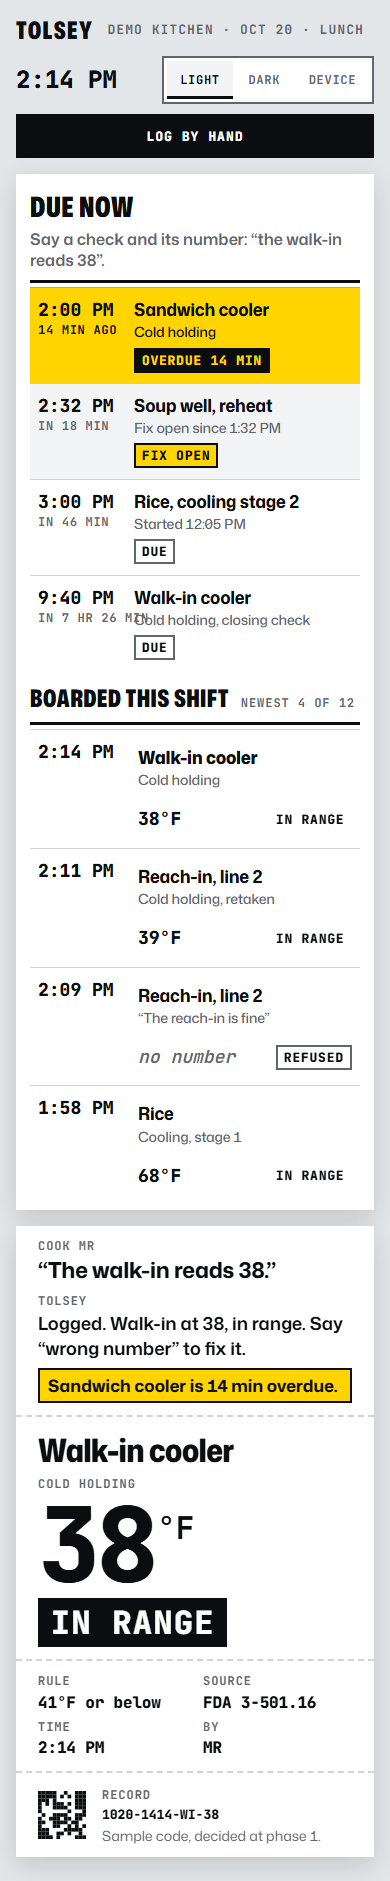
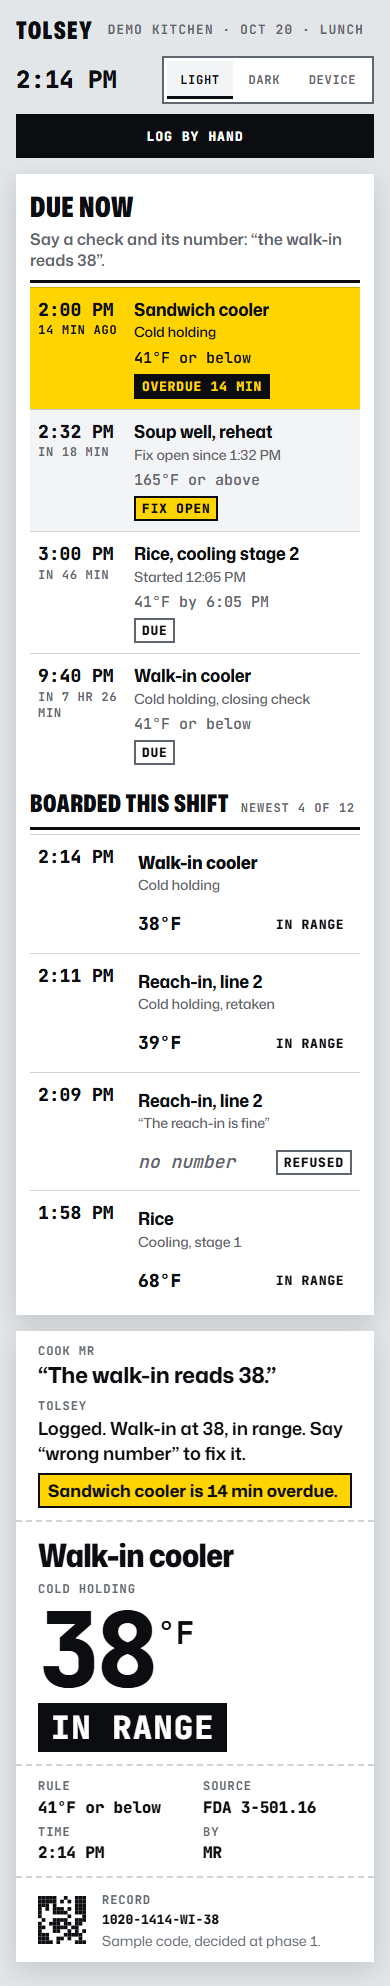
fix(design): keep the rule on a phone and name every restacked cell
Four findings from the pull request's review, each checked against the code
first.

- The board hid the rule column entirely under 900px, so a cook could see a
  check was due and not the number it had to meet. The rule now restacks under
  the check. Measured at 390 and 320 wide in all four states.
- A relative time carrying hours and minutes is wider than the phone's time
  column and ran across the check beside it. It wraps there now. Measured: no
  relative line's right edge passes its own cell in any of the four states at
  either width.
- The boarded table had four data columns and no header cells at all. It gains
  a clipped header row, so the column names reach the accessibility tree while
  the list keeps the look its own heading gives it.
- A restacked row overrides the table display, so the header stops naming its
  cells however it is hidden. The day sheet's two bare cells, the reading and
  the initials, now carry their own name in the markup. Measured: a row reads
  "6:52 AM Walk-in cooler Cold holding Reading 37 41 or below IN RANGE Logged
  by MR", and the added spans measure 1px, so nothing moves on screen.
- PRODUCT.md called the judge's replay a captured real run, which the same file
  contradicts four lines later and the launch page no longer says.

Captures: only the four wall phone frames changed, which is the control. The
desktop frames and every record frame reproduced byte for byte, as they should
when a change is invisible or below the breakpoint.

Changed region(s): [[0.0308, 0.0, 0.9538, 0.9867], [0.7692, 0.8942, 0.8, 0.925], [0.7385, 0.9559, 0.7692, 0.9867]]

diff --git a/design/mockups/record.html b/design/mockups/record.html
@@ -216,32 +216,32 @@
         <thead><tr><th class="label" scope="col">Time</th><th class="label" scope="col">Check</th><th class="label num" scope="col">Reading</th><th class="label" scope="col">Rule</th><th class="label" scope="col">Verdict</th><th class="label" scope="col">By</th></tr></thead>
         <tbody>
           <tr class="hour"><td colspan="6">Opening</td></tr>
-          <tr><td class="t">6:52 AM</td><td class="check">Walk-in cooler<small>Cold holding</small></td><td class="reading num">37</td><td class="rule">41 or below</td><td class="verdict"><span class="status status--word">In range</span></td><td class="by">MR</td></tr>
-          <tr><td class="t">6:55 AM</td><td class="check">Reach-in, line 1<small>Cold holding</small></td><td class="reading num">39</td><td class="rule">41 or below</td><td class="verdict"><span class="status status--word">In range</span></td><td class="by">MR</td></tr>
-          <tr><td class="t">6:58 AM</td><td class="check">Reach-in, line 2<small>Cold holding</small></td><td class="reading num">40</td><td class="rule">41 or below</td><td class="verdict"><span class="status status--word">In range</span></td><td class="by">MR</td></tr>
-          <tr><td class="t">9:15 AM</td><td class="check">Delivery, dairy<small>Receiving</small></td><td class="reading num">40</td><td class="rule">41 or below</td><td class="verdict"><span class="status status--word">In range</span></td><td class="by">JT</td></tr>
+          <tr><td class="t">6:52 AM</td><td class="check">Walk-in cooler<small>Cold holding</small></td><td class="reading num"><span class="visually-hidden">Reading </span>37</td><td class="rule">41 or below</td><td class="verdict"><span class="status status--word">In range</span></td><td class="by"><span class="visually-hidden">Logged by </span>MR</td></tr>
+          <tr><td class="t">6:55 AM</td><td class="check">Reach-in, line 1<small>Cold holding</small></td><td class="reading num"><span class="visually-hidden">Reading </span>39</td><td class="rule">41 or below</td><td class="verdict"><span class="status status--word">In range</span></td><td class="by"><span class="visually-hidden">Logged by </span>MR</td></tr>
+          <tr><td class="t">6:58 AM</td><td class="check">Reach-in, line 2<small>Cold holding</small></td><td class="reading num"><span class="visually-hidden">Reading </span>40</td><td class="rule">41 or below</td><td class="verdict"><span class="status status--word">In range</span></td><td class="by"><span class="visually-hidden">Logged by </span>MR</td></tr>
+          <tr><td class="t">9:15 AM</td><td class="check">Delivery, dairy<small>Receiving</small></td><td class="reading num"><span class="visually-hidden">Reading </span>40</td><td class="rule">41 or below</td><td class="verdict"><span class="status status--word">In range</span></td><td class="by"><span class="visually-hidden">Logged by </span>JT</td></tr>
 
           <tr class="hour"><td colspan="6">Lunch</td></tr>
-          <tr><td class="t">11:02 AM</td><td class="check">Walk-in cooler<small>Cold holding</small></td><td class="reading num">38</td><td class="rule">41 or below</td><td class="verdict"><span class="status status--word">In range</span></td><td class="by">MR</td></tr>
-          <tr><td class="t">11:40 AM</td><td class="check">Delivery, chicken<small>Receiving</small></td><td class="reading num">36</td><td class="rule">41 or below</td><td class="verdict"><span class="status status--word">In range</span></td><td class="by">JT</td></tr>
-          <tr><td class="t">12:05 PM</td><td class="check">Rice<small>Cooling starts, both clocks run</small></td><td class="reading num">135</td><td class="rule">70 by 2:05 PM</td><td class="verdict"><span class="status status--quiet">Cooling</span></td><td class="by">AK</td></tr>
-          <tr class="row--change"><td class="t">1:32 PM</td><td class="check">Soup well<small>Hot holding</small></td><td class="reading num">128</td><td class="rule">135 or above</td><td class="verdict"><span class="status status--alert">Out of range</span></td><td class="by">JT</td></tr>
+          <tr><td class="t">11:02 AM</td><td class="check">Walk-in cooler<small>Cold holding</small></td><td class="reading num"><span class="visually-hidden">Reading </span>38</td><td class="rule">41 or below</td><td class="verdict"><span class="status status--word">In range</span></td><td class="by"><span class="visually-hidden">Logged by </span>MR</td></tr>
+          <tr><td class="t">11:40 AM</td><td class="check">Delivery, chicken<small>Receiving</small></td><td class="reading num"><span class="visually-hidden">Reading </span>36</td><td class="rule">41 or below</td><td class="verdict"><span class="status status--word">In range</span></td><td class="by"><span class="visually-hidden">Logged by </span>JT</td></tr>
+          <tr><td class="t">12:05 PM</td><td class="check">Rice<small>Cooling starts, both clocks run</small></td><td class="reading num"><span class="visually-hidden">Reading </span>135</td><td class="rule">70 by 2:05 PM</td><td class="verdict"><span class="status status--quiet">Cooling</span></td><td class="by"><span class="visually-hidden">Logged by </span>AK</td></tr>
+          <tr class="row--change"><td class="t">1:32 PM</td><td class="check">Soup well<small>Hot holding</small></td><td class="reading num"><span class="visually-hidden">Reading </span>128</td><td class="rule">135 or above</td><td class="verdict"><span class="status status--alert">Out of range</span></td><td class="by"><span class="visually-hidden">Logged by </span>JT</td></tr>
           <tr class="fix"><td colspan="6"><div class="fix-body"><b>Fix: soup well, reheat to 165 by 2:32 PM</b><p>Opened 1:32 PM when the soup well read 128. House rule, one hour, where FDA 3-403.11 allows two. Closed 2:26 PM at 168, six minutes early.</p><span class="status status--word">Closed on time</span></div></td></tr>
-          <tr><td class="t">1:58 PM</td><td class="check">Rice<small>Cooling, stage 1</small></td><td class="reading num">68</td><td class="rule">70 by 2:05 PM</td><td class="verdict"><span class="status status--word">In range</span></td><td class="by">AK</td></tr>
-          <tr class="row--change"><td class="t">2:09 PM</td><td class="check">Reach-in, line 2<small>Said &ldquo;the reach-in is fine&rdquo;</small></td><td class="reading num reading--none">no number</td><td class="rule">41 or below</td><td class="verdict"><span class="status status--alert">Refused</span></td><td class="by">AK</td></tr>
-          <tr><td class="t">2:11 PM</td><td class="check">Reach-in, line 2<small>Cold holding, retaken</small></td><td class="reading num">39</td><td class="rule">41 or below</td><td class="verdict"><span class="status status--word">In range</span></td><td class="by">AK</td></tr>
-          <tr><td class="t">2:14 PM</td><td class="check">Walk-in cooler<small>Cold holding</small></td><td class="reading num">38</td><td class="rule">41 or below</td><td class="verdict"><span class="status status--word">In range</span></td><td class="by">MR</td></tr>
-          <tr class="row--change"><td class="t">2:20 PM</td><td class="check">Sandwich cooler<small>Cold holding, was due 2:00 PM</small></td><td class="reading num">40</td><td class="rule">41 or below</td><td class="verdict"><span class="status status--alert">Late 20 min</span></td><td class="by">DS</td></tr>
-          <tr><td class="t">2:26 PM</td><td class="check">Soup well<small>Reheat, closes the fix</small></td><td class="reading num">168</td><td class="rule">165 or above, 15 s</td><td class="verdict"><span class="status status--word">In range</span></td><td class="by">DS</td></tr>
+          <tr><td class="t">1:58 PM</td><td class="check">Rice<small>Cooling, stage 1</small></td><td class="reading num"><span class="visually-hidden">Reading </span>68</td><td class="rule">70 by 2:05 PM</td><td class="verdict"><span class="status status--word">In range</span></td><td class="by"><span class="visually-hidden">Logged by </span>AK</td></tr>
+          <tr class="row--change"><td class="t">2:09 PM</td><td class="check">Reach-in, line 2<small>Said &ldquo;the reach-in is fine&rdquo;</small></td><td class="reading num reading--none"><span class="visually-hidden">Reading </span>no number</td><td class="rule">41 or below</td><td class="verdict"><span class="status status--alert">Refused</span></td><td class="by"><span class="visually-hidden">Logged by </span>AK</td></tr>
+          <tr><td class="t">2:11 PM</td><td class="check">Reach-in, line 2<small>Cold holding, retaken</small></td><td class="reading num"><span class="visually-hidden">Reading </span>39</td><td class="rule">41 or below</td><td class="verdict"><span class="status status--word">In range</span></td><td class="by"><span class="visually-hidden">Logged by </span>AK</td></tr>
+          <tr><td class="t">2:14 PM</td><td class="check">Walk-in cooler<small>Cold holding</small></td><td class="reading num"><span class="visually-hidden">Reading </span>38</td><td class="rule">41 or below</td><td class="verdict"><span class="status status--word">In range</span></td><td class="by"><span class="visually-hidden">Logged by </span>MR</td></tr>
+          <tr class="row--change"><td class="t">2:20 PM</td><td class="check">Sandwich cooler<small>Cold holding, was due 2:00 PM</small></td><td class="reading num"><span class="visually-hidden">Reading </span>40</td><td class="rule">41 or below</td><td class="verdict"><span class="status status--alert">Late 20 min</span></td><td class="by"><span class="visually-hidden">Logged by </span>DS</td></tr>
+          <tr><td class="t">2:26 PM</td><td class="check">Soup well<small>Reheat, closes the fix</small></td><td class="reading num"><span class="visually-hidden">Reading </span>168</td><td class="rule">165 or above, 15 s</td><td class="verdict"><span class="status status--word">In range</span></td><td class="by"><span class="visually-hidden">Logged by </span>DS</td></tr>
 
           <tr class="hour"><td colspan="6">Afternoon</td></tr>
-          <tr><td class="t">3:00 PM</td><td class="check">Rice<small>Cooling, stage 2</small></td><td class="reading num">56</td><td class="rule">41 by 6:05 PM</td><td class="verdict"><span class="status status--quiet">Cooling</span></td><td class="by">AK</td></tr>
-          <tr><td class="t">4:15 PM</td><td class="check">Rice<small>Cooling, stage 2</small></td><td class="reading num">47</td><td class="rule">41 by 6:05 PM</td><td class="verdict"><span class="status status--quiet">Cooling</span></td><td class="by">AK</td></tr>
-          <tr><td class="t">5:40 PM</td><td class="check">Rice<small>Cooling, stage 2</small></td><td class="reading num">40</td><td class="rule">41 by 6:05 PM</td><td class="verdict"><span class="status status--word">In range</span></td><td class="by">AK</td></tr>
+          <tr><td class="t">3:00 PM</td><td class="check">Rice<small>Cooling, stage 2</small></td><td class="reading num"><span class="visually-hidden">Reading </span>56</td><td class="rule">41 by 6:05 PM</td><td class="verdict"><span class="status status--quiet">Cooling</span></td><td class="by"><span class="visually-hidden">Logged by </span>AK</td></tr>
+          <tr><td class="t">4:15 PM</td><td class="check">Rice<small>Cooling, stage 2</small></td><td class="reading num"><span class="visually-hidden">Reading </span>47</td><td class="rule">41 by 6:05 PM</td><td class="verdict"><span class="status status--quiet">Cooling</span></td><td class="by"><span class="visually-hidden">Logged by </span>AK</td></tr>
+          <tr><td class="t">5:40 PM</td><td class="check">Rice<small>Cooling, stage 2</small></td><td class="reading num"><span class="visually-hidden">Reading </span>40</td><td class="rule">41 by 6:05 PM</td><td class="verdict"><span class="status status--word">In range</span></td><td class="by"><span class="visually-hidden">Logged by </span>AK</td></tr>
 
           <tr class="hour"><td colspan="6">Closing</td></tr>
-          <tr><td class="t">9:31 PM</td><td class="check">Walk-in cooler<small>Cold holding</small></td><td class="reading num">37</td><td class="rule">41 or below</td><td class="verdict"><span class="status status--word">In range</span></td><td class="by">DS</td></tr>
-          <tr><td class="t">9:34 PM</td><td class="check">Reach-in, line 1<small>Cold holding</small></td><td class="reading num">38</td><td class="rule">41 or below</td><td class="verdict"><span class="status status--word">In range</span></td><td class="by">DS</td></tr>
+          <tr><td class="t">9:31 PM</td><td class="check">Walk-in cooler<small>Cold holding</small></td><td class="reading num"><span class="visually-hidden">Reading </span>37</td><td class="rule">41 or below</td><td class="verdict"><span class="status status--word">In range</span></td><td class="by"><span class="visually-hidden">Logged by </span>DS</td></tr>
+          <tr><td class="t">9:34 PM</td><td class="check">Reach-in, line 1<small>Cold holding</small></td><td class="reading num"><span class="visually-hidden">Reading </span>38</td><td class="rule">41 or below</td><td class="verdict"><span class="status status--word">In range</span></td><td class="by"><span class="visually-hidden">Logged by </span>DS</td></tr>
         </tbody>
       </table>
 

diff --git a/design/mockups/wall.html b/design/mockups/wall.html
@@ -121,6 +121,9 @@
     .check { font-size: 1.375rem; font-weight: 700; font-stretch: 95%; line-height: 1.3; letter-spacing: -0.01em; }
     .check small { display: block; font-size: 0.9375rem; font-weight: 500; font-stretch: 100%; color: var(--steel); margin-top: 2px; }
     .r { font-family: var(--mono); font-size: 0.9375rem; font-weight: 600; color: var(--steel); white-space: nowrap; }
+    /* The boarded list sits under its own heading and needs no second visible header row, but the column names
+       still belong in the accessibility tree: a bare 38°F beside a bare In range means nothing without them. */
+    .rows--boarded thead { position: absolute; width: 1px; height: 1px; overflow: hidden; clip-path: inset(50%); white-space: nowrap; }
     .rows--boarded td { padding: 6px 12px; }
     .rows--boarded .t { font-size: 1.125rem; }
     .rows--boarded .check { font-size: 1.125rem; }
@@ -172,8 +175,12 @@
       thead { position: absolute; width: 1px; height: 1px; overflow: hidden; clip-path: inset(50%); white-space: nowrap; }
       tr { display: grid; grid-template-columns: 5.25rem minmax(0, 1fr); column-gap: 12px; row-gap: 6px; padding: 10px 8px; border-top: 1px solid var(--hair); }
       td, th:first-child, td:first-child, td:last-child { padding: 0; border: 0; text-align: left; }
-      td.t { grid-row: span 2; }
-      td.rule { display: none; }
+      /* The rule stays on a phone: a cook who can see a check is due can see the number it must meet. */
+      td.t { grid-row: span 3; }
+      /* A relative time carrying hours and minutes is wider than the time column, so it wraps here rather
+         than running across the check beside it. The printed time above it still never breaks. */
+      .t small { white-space: normal; }
+      td.rule { grid-column: 2; }
       td:last-child { grid-column: 2; }
       tr.row--change { background: var(--row-alt); }
       tr.row--lit { background: var(--alert); color: var(--on-alert); }
@@ -229,6 +236,7 @@
       <header class="board-head board-head--second"><h3>Boarded this shift</h3><span class="aside label" id="boarded-count">Newest 4 of 12</span></header>
       <table class="rows--boarded">
         <caption>Checks logged this shift, newest first</caption>
+        <thead><tr><th class="label" scope="col">Time</th><th class="label" scope="col">Check</th><th class="label" scope="col">Reading</th><th class="label" scope="col">Status</th></tr></thead>
         <tbody id="boarded">
           <tr class="row--newest" data-at="854"><td class="t">2:14 PM</td><td class="check">Walk-in cooler<small>Cold holding</small></td><td class="r reading-cell">38°F</td><td><span class="status status--word flip">In range</span></td></tr>
           <tr data-at="851"><td class="t">2:11 PM</td><td class="check">Reach-in, line 2<small>Cold holding, retaken</small></td><td class="r reading-cell">39°F</td><td><span class="status status--word flip">In range</span></td></tr>

diff --git a/PRODUCT.md b/PRODUCT.md
@@ -28,7 +28,7 @@ Replace the paper temperature log and the opening and closing clipboard in a sma
 - A small commercial kitchen during service: heat, steam, noise, bright or uneven light, wet or gloved hands, attention split with cooking.
 - The device is an Alexa+ screen (Echo Show class) on a kitchen wall or counter, read from a few steps away. Amazon lists the Alexa+ MCP Toolkit as available in the United States. A judge has nothing installed and the hackathon allows a simulated experience, so the entry ships a simulated Alexa+ surface in the browser; the MCP server behind it is real.
 - Artifacts that exist today in this world: the clipboard temperature log on the walk-in door, opening and closing checklists, the shift handover conversation, the inspector's visit.
-- The judge's path: a launch page, a zero-install replay of a captured real run, a video under three minutes.
+- The judge's path: a launch page, a zero-install replay of the demo shift, a video under three minutes. The replay is scripted from the demo kitchen's record and is labelled as such until a real run is captured and its licence settled.
 
 ## Capabilities and Constraints
 
